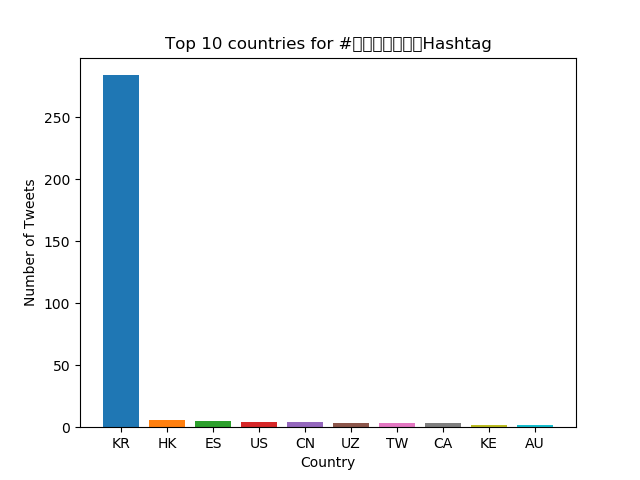
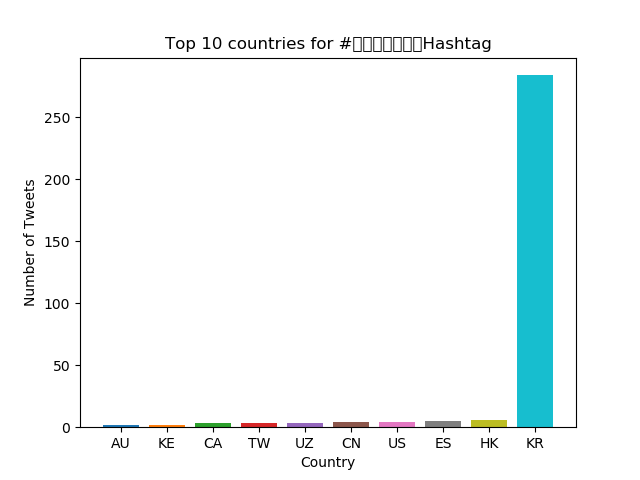
55588

diff --git a/src/visualize.py b/src/visualize.py
@@ -31,7 +31,7 @@ for k,v in items[-10:][::-1]:
     print(k,':',v)
 
 # Create bar plot
-for k,v in items[:10]:
+for k,v in reversed(items[:10]):
     plt.bar(k, v)
 
 # Set plot title and axis labels
